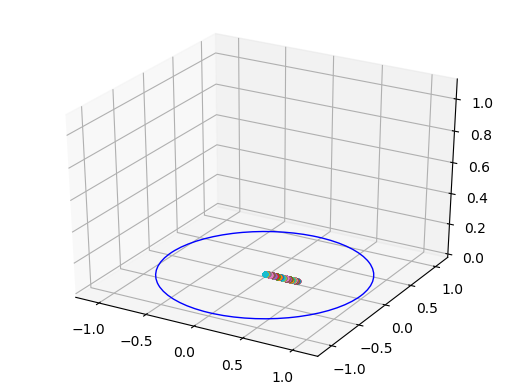
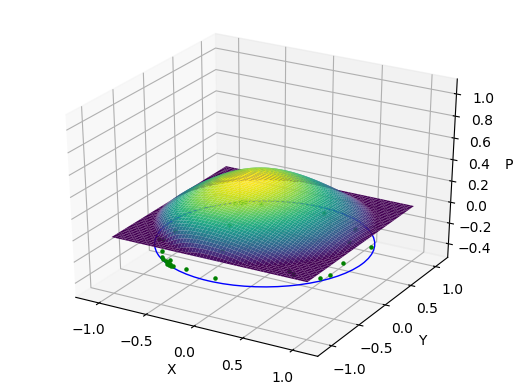
Visualization fix

diff --git a/Visualization/Gaussian_Mixture_Visualization.py b/Visualization/Gaussian_Mixture_Visualization.py
@@ -9,7 +9,7 @@ from matplotlib.text import TextPath
 from matplotlib.transforms import Affine2D
 from Math_Functions.Riemannian.Gaussian_PDF import *
 
-def Plot_Gaussian_Mixture(Z, Means, Variances, Weights, output_filename):
+def Plot_Gaussian_Mixture(Data, Means, Variances, Weights, output_filename):
 
     N = 60
     X = np.linspace(-1, 1, N)
@@ -58,21 +58,26 @@ def Plot_Gaussian_Mixture(Z, Means, Variances, Weights, output_filename):
     fig = plt.figure()
     ax = fig.add_subplot(111, projection='3d')
     ax = fig.gca(projection='3d')
-    #ax.plot_surface(X, Y, Z, rstride=1, cstride=1, linewidth=1, antialiased=True, cmap=cm.viridis)
+    ax.plot_surface(X, Y, Z, rstride=1, cstride=1, linewidth=1, antialiased=True, cmap=cm.viridis)
 
     #Poincaré circle
     p = Circle((0, 0), 1, edgecolor='b', lw=1, facecolor='none')
     ax.add_patch(p)
-    art3d.pathpatch_2d_to_3d(p, z=0, zdir="z")
+    art3d.pathpatch_2d_to_3d(p, z=-0.2, zdir="z")
 
-    for i in range(len(Z)):
-        ax.plot(Z[i].real, Z[i].imag, marker='.')
 
-    ax.plot(-1.0,1.0, marker='.')
+
+    for i in range(len(Data)):
+        ax.scatter(Data[i].real, Data[i].imag,-0.2, c = 'g', marker='.')
+        #print(Z[i].real, Z[i].imag)
 
     ax.set_xlim(-1.2, 1.2)
     ax.set_ylim(-1.2, 1.2)
-    ax.set_zlim(0, 1.1)
+    ax.set_zlim(-0.5, 1.1)
+
+    ax.set_xlabel('X')
+    ax.set_ylabel('Y')
+    ax.set_zlabel('P')
 
     filename = 'Output/'+output_filename
 
@@ -81,5 +86,3 @@ def Plot_Gaussian_Mixture(Z, Means, Variances, Weights, output_filename):
     print('Data plot saved to ',filename)
 
     plt.show()
-
-
